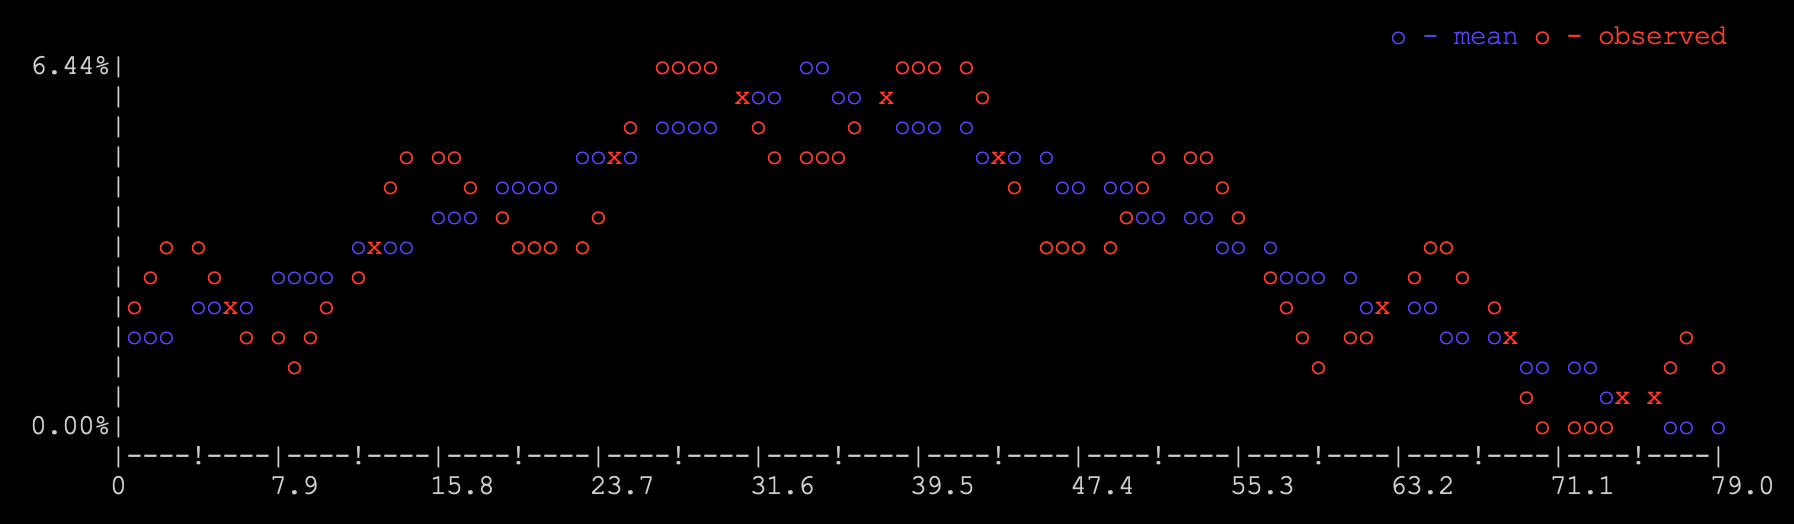
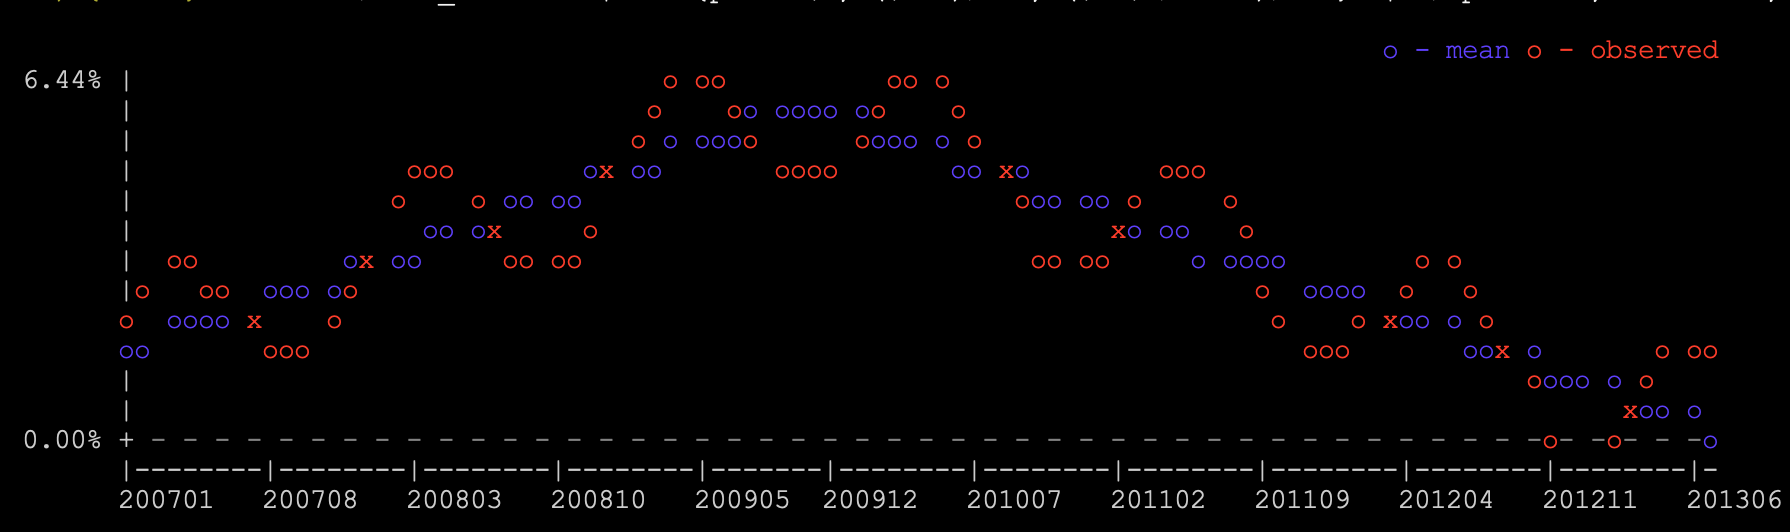
Modify README.md

diff --git a/README.md b/README.md
@@ -3,12 +3,42 @@
 
 ## Usage
 ```bash
-Usage: tplot [-s "hieght, width"] [-y "min,max"] [-f format] [-l "legend1, legend2, .."] [file]
+NAME
+    tplot - A simple terminal plotting tool
+
+SYNOPSIS
+    tplot -r col1[,col2,..] [-b col] [-s hieght,width] [-y min,max] [-f
+    format] [-l legend1, legend2, ..] [-h] [file]
+
+OPTIONS
+    The following options are supported:
+
+    -r col1[,col2,..]
+                List the column numbers that are to be included in the plot.
+
+    -b col      Column to be used for labels.
+
+    -s height,width
+                The size of the plotting area. Default height is 15 and
+                default width is 100.
+
+    -y min,max  Set min and max of the y axis.
+
+    -f format   Format of the y-axis label. If not selected, it will be
+                decided based on the max absolute value of the input. "m"
+                for millions. "p" for percentage. "k" for thousands.
+
+    -l legend1, legend2,...
+                Legends for each series. If not selected, numbers will be
+                used.
+
+    -h          Print this help message.
+
 ```
 
 ## Examples
 ```bash
-% cat doc/test_dat.txt |awk '{print ($4+2)/100, ($4+$1/0.8+2)/100}' | tplot -l "mean,observed" -y0 -fp
+% cat doc/test_dat2.txt |awk '{print $1, ($5+2)/100, ($5+$2/0.8+2)/100}' | ./tplot -r2,3 -l "mean,observed" -y0 -fp -b1
 ```
 <img src="./doc/ex1.png" width="850"/>
 
